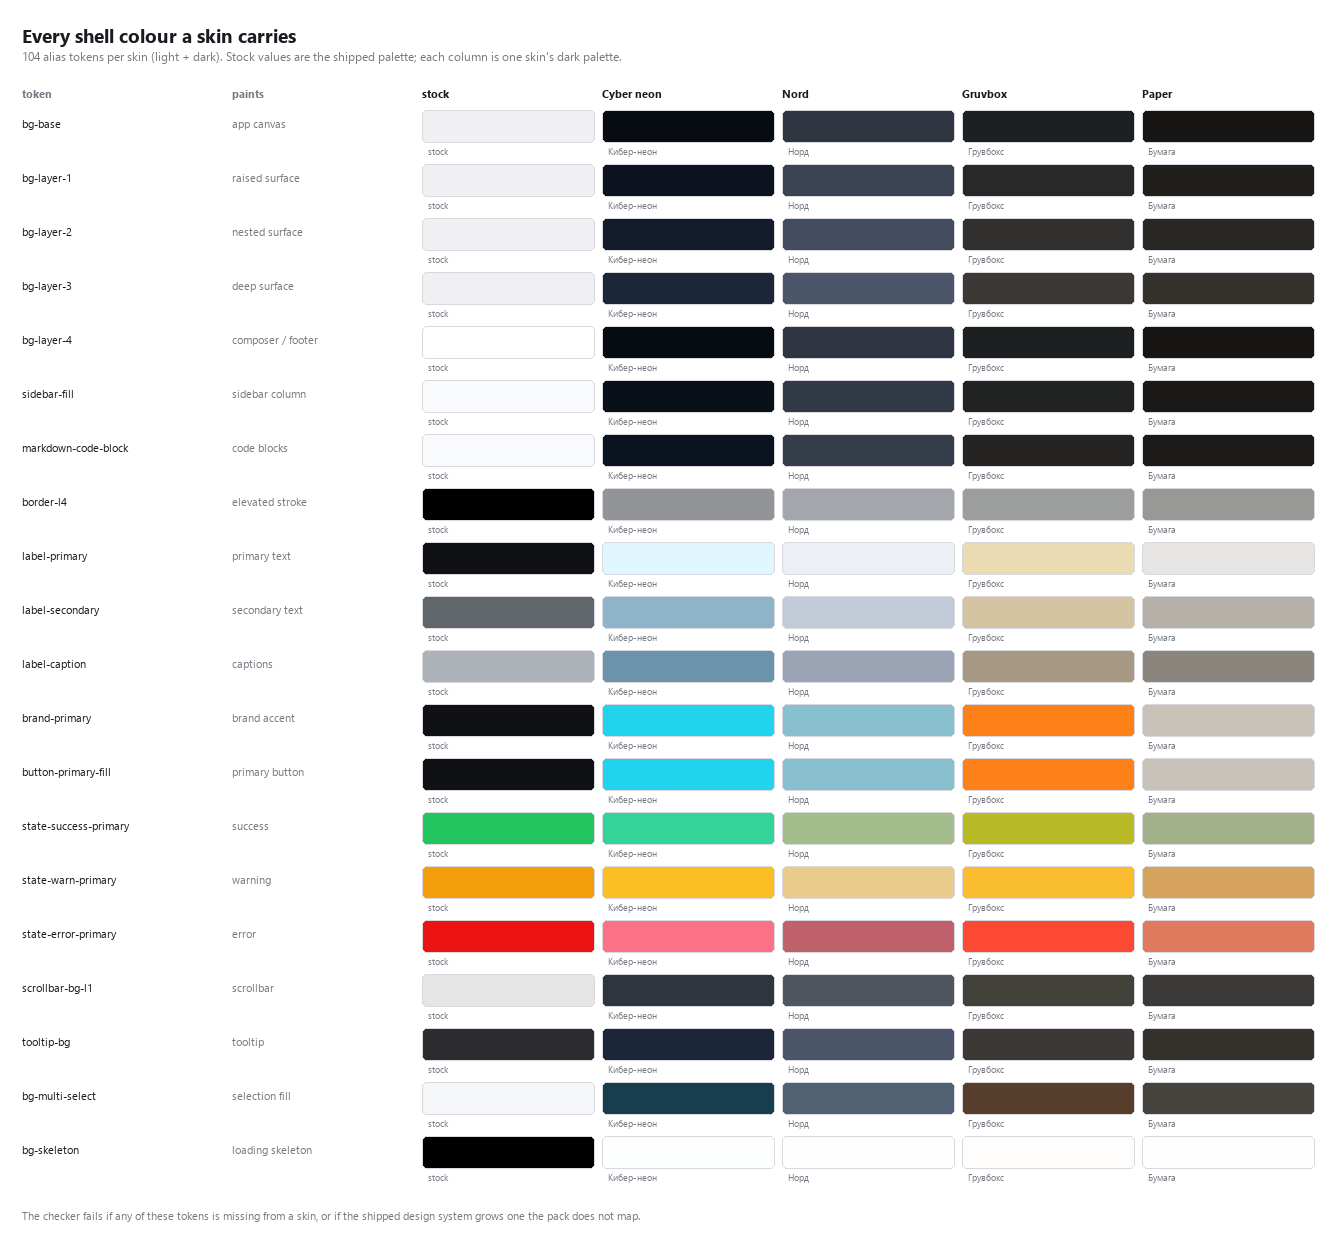
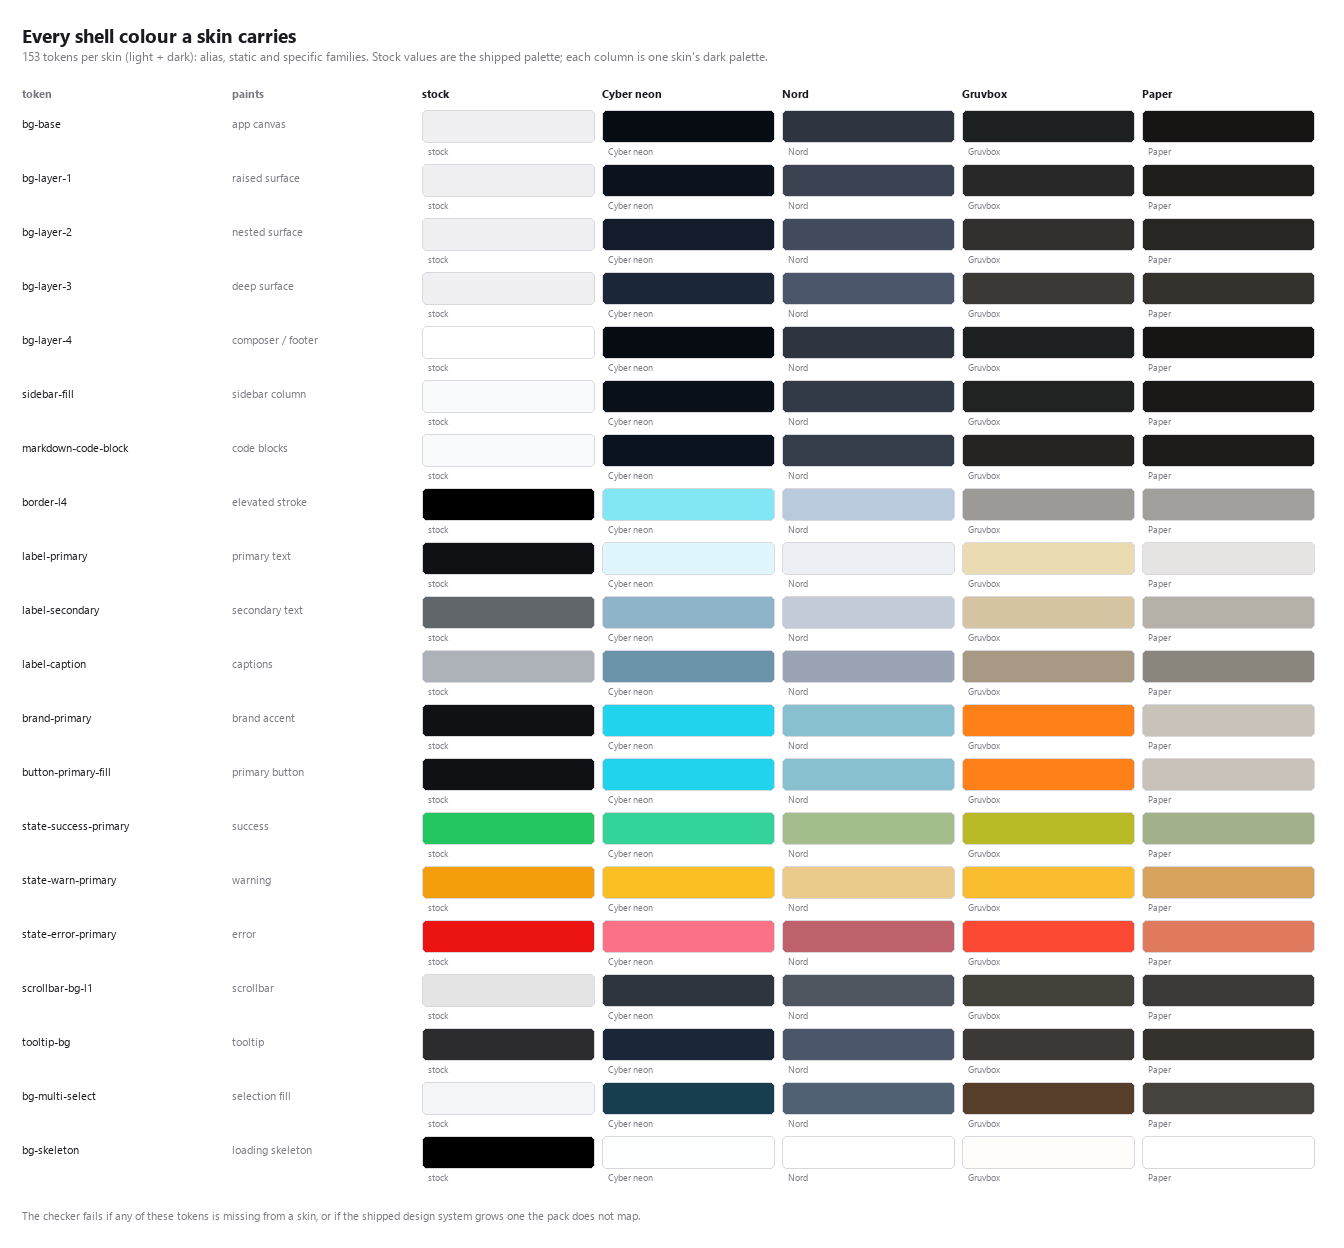
fix: the second figure was still half-Russian, and README images are cached
Two separate reasons the GitHub page kept showing the previous artwork.

- `make-token-diagram.py` used the *Russian* label for the caption under every
  swatch while the column header above it used the English one. The English
  label is used for both now, and the subtitle says "alias, static and specific
  families" rather than "alias tokens" — the figure covers all three.
- GitHub serves README images through its `camo` proxy, which keeps one copy per
  URL, so re-rendering a figure at the same path can keep showing the old bytes
  for a long time. A hard reload and a private window do not help: the stale copy
  is not in the reader's browser. Both figure URLs in the README now carry a
  `?v=` suffix, with a comment explaining that it must be bumped whenever a
  figure is re-rendered.

Also refresh the prose the figures illustrate: 19 skins, 153 tokens across the
three families, the re-entrancy and activation guarantees in the checker list,
and the same numbers in the Russian section.

diff --git a/make-token-diagram.py b/make-token-diagram.py
@@ -105,8 +105,8 @@ def main() -> None:
     draw.text((margin, margin), "Every shell colour a skin carries", fill=INK, font=font(19, bold=True))
     draw.text(
         (margin, margin + 26),
-        f"{token_count} alias tokens per skin (light + dark). Stock values are the shipped palette; "
-        f"each column is one skin's dark palette.",
+        f"{token_count} tokens per skin (light + dark): alias, static and specific families. "
+        f"Stock values are the shipped palette; each column is one skin's dark palette.",
         fill=MUTED,
         font=font(12),
     )
@@ -131,7 +131,8 @@ def main() -> None:
             else:
                 theme = by_id[id]
                 value = theme["all"]["dark"].get(token, "#ffffff")
-                caption = theme["label"]["ru"]
+                # English matches the column header above it (and the README).
+                caption = theme["label"]["en"]
             swatch(draw, value, x, y, cell_w, cell_h - 14, caption)
         y += cell_h + gap
 

diff --git a/README.md b/README.md
@@ -1,10 +1,17 @@
 # DSH theme pack
 
 A color theme pack for the [DeepSeek Harness](https://github.com/deepseek-ai/deepseek-harness)
-web GUI: **18 skins**, each carrying a light *and* a dark palette, picked from
+web GUI: **19 skins**, each carrying a light *and* a dark palette, picked from
 **Settings → General → Theme**.
 
-![Palette preview](docs/preview.png)
+<!--
+The `v=` suffix is deliberate: GitHub serves README images through its `camo`
+proxy, which keeps a copy per URL, so a re-rendered figure at the same path can
+keep showing the previous version for a long time (a hard reload and a private
+window do not help — the stale copy is not in the reader's browser). Bump the
+value whenever make-theme-preview.py rewrites the figure.
+-->
+![Palette preview](docs/preview.png?v=2)
 
 ## Themes
 
@@ -158,31 +165,40 @@ override layers** on top of the active palette with
 `ctx.theme.overrideTokens("@local/dsh-theme-pack", tokens)`.
 
 Each skin declares ~18 color *atoms* per scheme (canvas, surfaces, text ladder,
-brand, border, states…) and a small engine derives **every alias token the shell
-consumes** from them — 104 of them today, not just the obvious two dozen:
+brand, border, states…) and a small engine derives **every colour token the shell
+consumes** from them — 153 of them today, across three token families, not just
+the obvious two dozen:
 
-![Every shell colour a skin carries](token-coverage.png)
+![Every shell colour a skin carries](token-coverage.png?v=2)
 
 * borders and interactive fills are composed over the canvas, so they stay flat
   colors that match any surface;
 * the text ladder and brand colors are taken as authored, so contrast is checked
-  rather than approximated.
+  rather than approximated;
+* the ramp the shell uses for structural neutrals (`--dsw-static-*`) and the
+  component overrides built on it (`--dsw-specific-*`) are derived from the same
+  atoms, so a skin has no stock grey left anywhere.
 
-Coverage is the whole point. The shipped shell declares over a hundred
-`--dsw-alias-*` names; a skin that overrides only the popular ones leaves the
-composer, a menu, the sidebar or a diff view in their stock colours, and the
-result is a half-repainted UI. Two of the names the shell reads
-(`--dsw-alias-bg-layer-4` for the composer and footer row, `--dsw-alias-label-error`)
-are not declared anywhere in the shipped stylesheets at all — the pack defines them.
+Coverage is the whole point, and it has to be measured across **all** the
+families. The shipped shell paints with `--dsw-alias-*` (the semantic ladder),
+`--dsw-static-*` (a fixed ramp) and `--dsw-specific-*` (component overrides
+pointing at that ramp); a skin that overrides only the popular alias names leaves
+the composer, a menu, the sidebar, a diff view — or the selected category in
+Settings — in their stock colours, and the result is a half-repainted UI. Three
+names the shell reads (`--dsw-alias-bg-layer-4` for the composer and footer row,
+`--dsw-alias-label-error`, and a scheme-less `--dsw-menu-surface-fill`) are not
+declared anywhere scheme-aware, so the pack defines them.
 
 Every generated palette is measured against WCAG contrast floors by the checker —
-380 foreground/background pairs across the 18 skins. The current tightest pair has
-a 4.03:1 ratio against a 4:1 requirement.
+380 foreground/background pairs across the 19 skins — plus a per-skin audit of the
+switch, whose knob has to read on both its off track and the brand fill. The
+current tightest pair has a 4.03:1 ratio against a 4:1 requirement.
 
 ## Verify
 
 ```bash
 node verify-theme-pack.mjs
+node report-token-coverage.mjs
 ```
 
 The checker runs the real `client.js` inside a minimal module-loader / DOM / React
@@ -192,7 +208,11 @@ harness and asserts that:
   **nothing** in the sidebar footer;
 * every skin stacks exactly one override layer, `Stock` stacks none, and picking
   `Stock` removes the layer;
-* all 104 overridden tokens exist in the shipped design system
+* a theme service that re-enters (`overrideTokens` publishes the very event the
+  pack listens to) neither overflows the stack nor re-stacks the layer;
+* `apply()` survives a restricted Client context, missing services and a missing
+  `React`, because a throw during activation fails the whole web boot;
+* all 153 overridden tokens exist in the shipped design system
   ([`design-platform.css`](design-platform.css) and
   [`docs/shell.css`](docs/shell.css), extracted from
   `@deepseek-ai/dsh-client-ui-theme` and the web shell) — a stylsheet that grows a
@@ -237,7 +257,7 @@ new atom usually means one new line in `palette()`, not a new token table.
 | `client.js` | Browser half: the palette engine, the theme catalogue, the picker row |
 | `index.js` | Host half: empty, the loader row only needs to exist |
 | `cordis.patch.yml` | The bundle patch that inserts the loader row |
-| `design-platform.css` | The shipped alias-token tables the checker validates against |
+| [`docs/design-platform.css`](docs/design-platform.css) | The shipped alias-token tables the checker validates against |
 | `docs/shell.css` | The shipped shell bundle, for the shell-only token names |
 | `docs/preview.png` | Palette preview (English names lead; Russian is the second line) |
 | `token-coverage.png` | Which shell element each skin carries |
@@ -247,6 +267,7 @@ new atom usually means one new line in `palette()`, not a new token table.
 | `report-switch.mjs` | Prints the switch's contrast per theme and scheme |
 | `export-theme-palettes.mjs` | Dumps every palette straight out of the engine |
 | `make-theme-preview.py` | Renders `docs/preview.png` from that dump |
+| `make-token-diagram.py` | Renders `token-coverage.png` from that dump |
 | `REFERENCE.md` | Token map and integration gotchas |
 
 ## License
@@ -257,7 +278,7 @@ MIT — see [LICENSE](LICENSE).
 
 # На русском
 
-**18 тем** для веб-интерфейса DeepSeek Harness, каждая с парой палитр
+**19 тем** для веб-интерфейса DeepSeek Harness, каждая с парой палитр
 (светлая и тёмная). Переключаются в **Настройки → Общие → «Темы»**; выбор
 запоминается в `localStorage`. «Сток» возвращает штатную палитру.
 
@@ -266,14 +287,18 @@ MIT — see [LICENSE](LICENSE).
 подхватывает HMR клиентских плагинов.
 
 Проверка палитр: `node verify-theme-pack.mjs` — гоняет настоящий `client.js`
-в минимальном окружении и проверяет регистрацию, **104 токена** против штатной
-дизайн-системы, различимость схем и контраст по WCAG.
+в минимальном окружении и проверяет регистрацию, **153 токена** против штатной
+дизайн-системы, различимость схем и контраст по WCAG, а также аудит тумблера
+(кружок должен читаться и на выключенной дорожке, и на фирменной заливке).
 
-Почему именно 104: оболочка DSH объявляет больше сотни alias-токенов, и если
-переопределить только «популярные», композер, меню или боковая панель останутся
-в штатных цветах — получится полуперекрашенный интерфейс. Два имени
-(`--dsw-alias-bg-layer-4` для композера и подвала, `--dsw-alias-label-error`)
-в штатных стилях вообще не объявлены — их задаёт пак.
+Почему именно 153: оболочка рисует не только `--dsw-alias-*`, но и
+`--dsw-static-*` (фиксированная шкала) с `--dsw-specific-*` (компонентные
+переопределения на её основе). Если переопределить только «популярные» alias-имена,
+композер, меню, боковая панель — или выбранная категория в настройках — останутся
+в штатных цветах: получится полуперекрашенный интерфейс. Три имени
+(`--dsw-alias-bg-layer-4` для композера и подвала, `--dsw-alias-label-error` и
+`--dsw-menu-surface-fill` без варианта для тёмной схемы) в штатных стилях
+объявлены неполно — их задаёт пак.
 
 `node report-token-coverage.mjs` печатает, какие объявленные токены пак ещё не
-переопределяет. Пустой список — норма.
+переопределяет, и падает, пока такие есть. Пустой список — норма.
